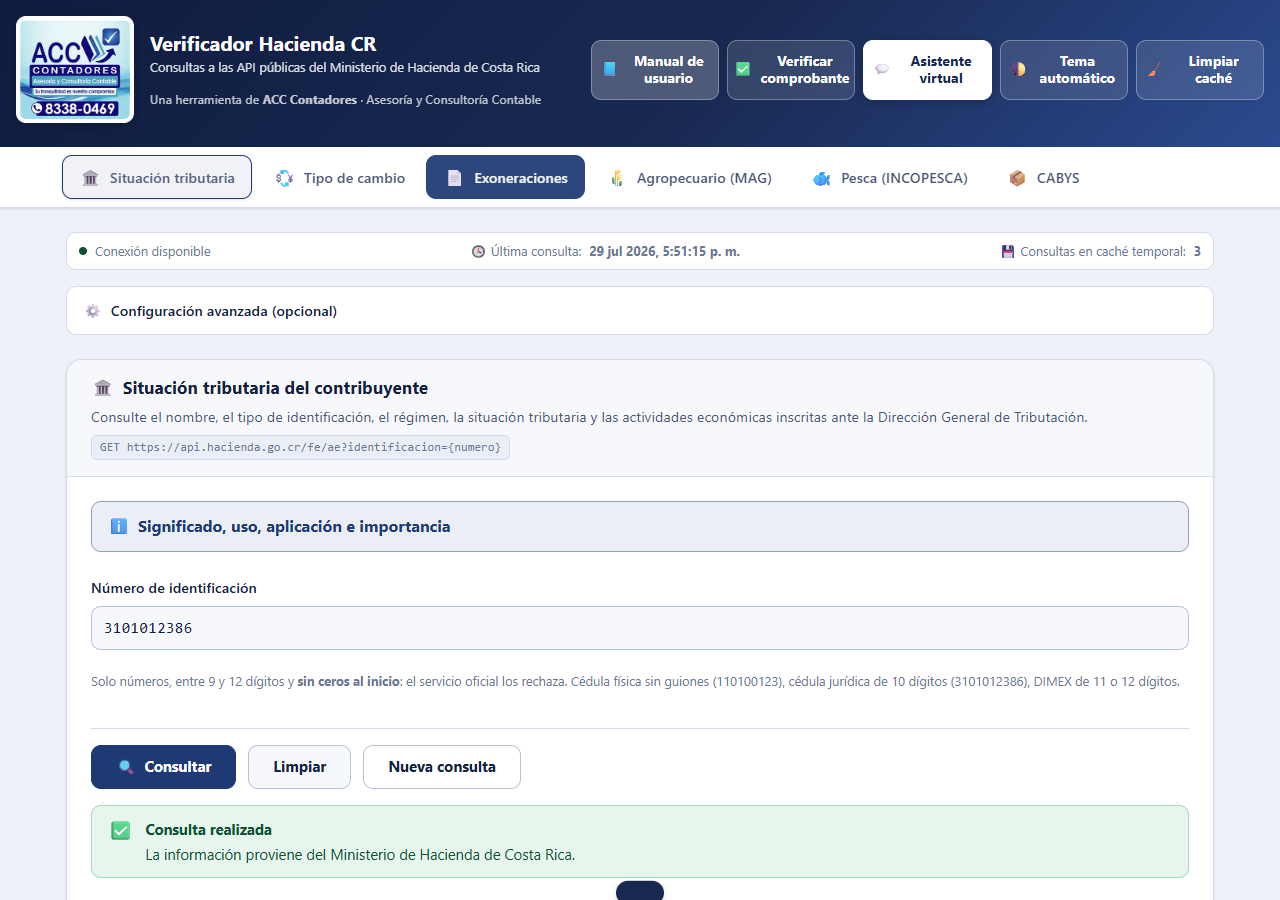
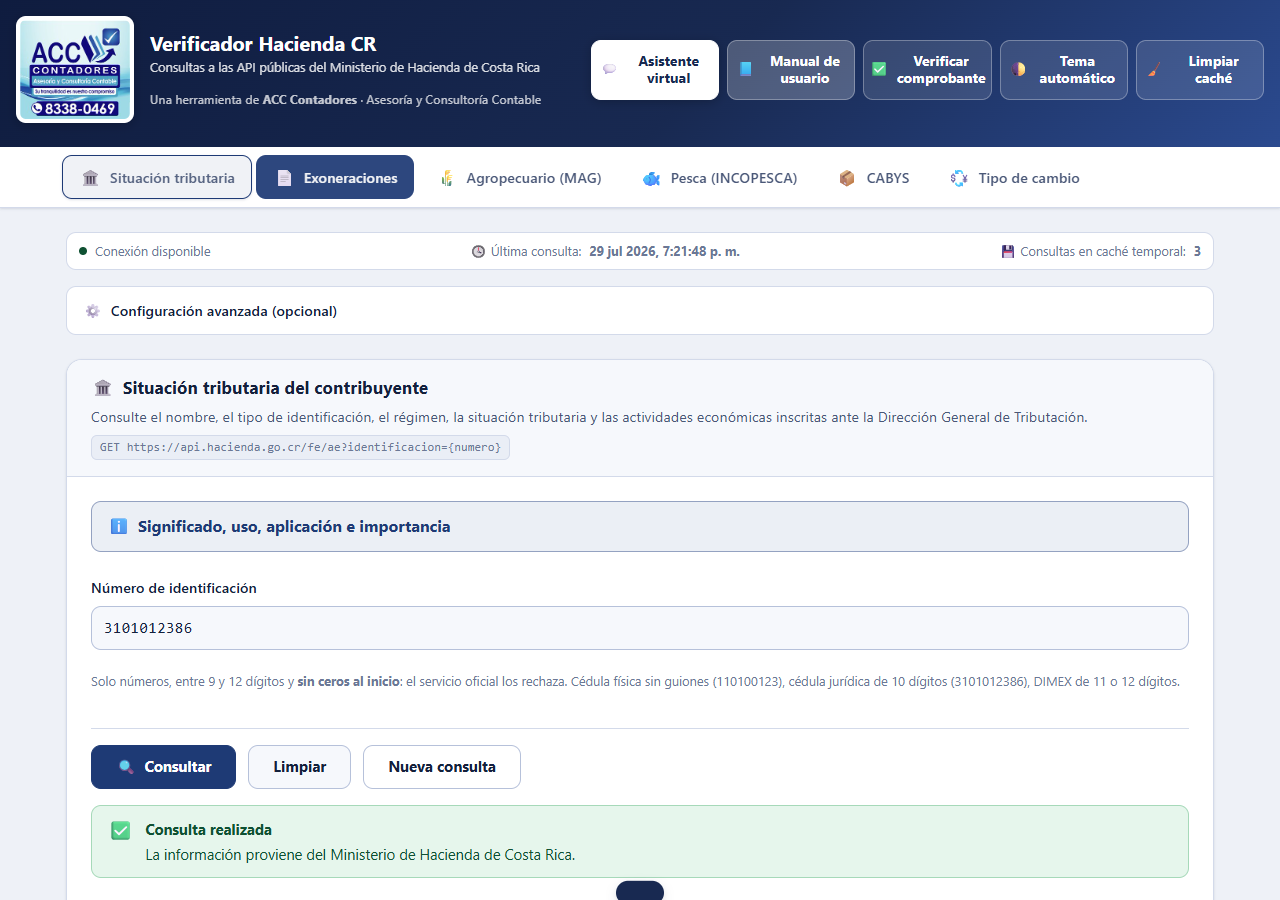
Actualiza los conteos de pruebas y las capturas

Changed region(s): [[0.1875, 0.1556, 0.8438, 0.2489], [0.4375, 0.0311, 0.7812, 0.1244]]

diff --git a/README.md b/README.md
@@ -59,9 +59,9 @@ VERIFICADOR/
 └── pruebas/                   ← Bancos de prueba reproducibles y evidencia.
     ├── pruebas-logica.js      ← 60 pruebas de validadores y normalizadores.
     ├── pruebas-api.js         ← 16 pruebas de integración contra la API real.
-    ├── pruebas-estructura.js  ← 10 auditorías del DOM (ids, ARIA, alt, encabezados).
+    ├── pruebas-estructura.js  ← 13 auditorías del DOM (ids, ARIA, anidamiento, alt…).
     ├── pruebas-comportamiento.js ← 16 pruebas del manual modal, paneles y teclado.
-    ├── pruebas-navegador.js   ← 53 pruebas en Chrome (interfaz, a11y, móvil).
+    ├── pruebas-navegador.js   ← 55 pruebas en Chrome (interfaz, a11y, móvil).
     ├── pruebas-sitio-publicado.js ← 10 pruebas contra la URL pública ya desplegada.
     └── capturas/              ← Capturas de pantalla y un CSV exportado real.
 ```
@@ -437,11 +437,11 @@ Resultados completos y evidencia en **[`PRUEBAS.md`](PRUEBAS.md)**. Resumen:
 |---|---|---|
 | Lógica pura (validadores, normalizadores, clasificadores) | 60 | 60 correctos |
 | Integración contra la API oficial | 16 | 16 correctos |
-| Estructura y accesibilidad del DOM | 10 | 10 correctos |
+| Estructura y accesibilidad del DOM | 13 | 13 correctos |
 | Comportamiento (manual modal, paneles, teclado) | 16 | 16 correctos |
-| Navegador real (Chrome: interfaz, accesibilidad, móvil) | 53 | 53 correctos |
+| Navegador real (Chrome: interfaz, accesibilidad, móvil) | 55 | 55 correctos |
 | Sitio publicado (URL pública real) | 10 | 10 correctos |
-| **Total** | **165** | **165 correctos** |
+| **Total** | **170** | **170 correctos** |
 
 Cómo ejecutarlas (Node.js 18 o superior):
 

diff --git a/PRUEBAS.md b/PRUEBAS.md
@@ -8,11 +8,11 @@ API consultada: `https://api.hacienda.go.cr` (servicios oficiales, sin datos sim
 |---|---:|---:|---:|
 | 1 · Lógica pura | 60 | 60 | 0 |
 | 2 · Integración con la API oficial | 16 | 16 | 0 |
-| 3 · Estructura y accesibilidad del DOM | 10 | 10 | 0 |
+| 3 · Estructura y accesibilidad del DOM | 13 | 13 | 0 |
 | 4 · Comportamiento (manual modal, paneles, teclado) | 16 | 16 | 0 |
-| 5 · Navegador real (Chrome) | 53 | 53 | 0 |
+| 5 · Navegador real (Chrome) | 55 | 55 | 0 |
 | 6 · Sitio publicado (URL pública real) | 10 | 10 | 0 |
-| **Total** | **165** | **165** | **0** |
+| **Total** | **170** | **170** | **0** |
 
 Todos los bancos son reproducibles; los comandos figuran al final de cada sección.
 
